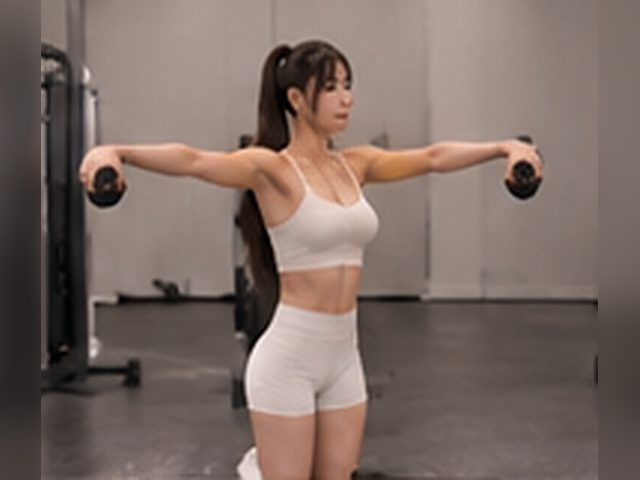
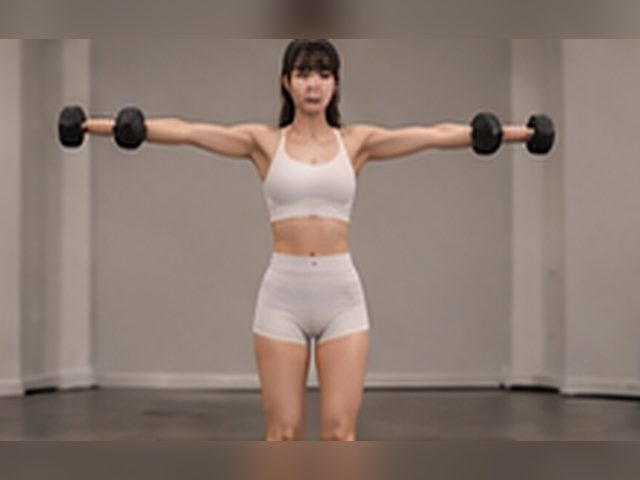
Photos from the second poster: one-arm row, reverse fly, lateral raise, seated row
- One-arm row and reverse fly were missing — now photos (drawing before)
- Lateral raise: front view; seated row: wider side view in the same outfit
- 22 of 26 movements have a photo; cross trainer, lat pulldown, reverse crunch
  and stomach vacuum keep their drawings
- All photos 640x480 (4:3), label and border removed

Claude-Session: https://claude.ai/code/session_019KpxJkwGgcJihZ3wnWQJG2

diff --git a/photos/README.md b/photos/README.md
@@ -5,8 +5,10 @@ movement (`.jpg`, `.png` or `.webp`, 4:3, 640 × 480 — all photos the same siz
 that has that exercise — no code change. Movements without a photo keep their drawing. The list lives in
 `photos.ts` (`MOVEMENT`); `SAME_AS` lets a movement reuse another's photo; a credit can go in `CREDIT`.
 
-The current photos were cut from the "Gym Plan – 3 Days" poster (one tile per exercise, label removed),
-enlarged to 640 × 480; tall and wide tiles sit whole on a blurred copy of themselves. ✓ = has a photo.
+The current photos were cut from the two "Gym Plan" posters (one tile per exercise, label removed),
+enlarged to 640 × 480; tall and wide tiles sit whole on a blurred copy of themselves. One-arm row,
+reverse fly, lateral raise and seated row come from the second poster, the rest from the first.
+✓ = has a photo.
 
 | File name | Exercise | Days | Photo |
 |---|---|---|---|
@@ -26,8 +28,8 @@ enlarged to 640 × 480; tall and wide tiles sit whole on a blurred copy of thems
 | `suitcase-carry` | Suitcase Carry | Mon, Fri | ✓ |
 | `lat-pulldown` | Lat Pulldown | Wed | drawing |
 | `seated-row` | Seated Row Machine | Fri | ✓ |
-| `one-arm-row` | One-Arm Dumbbell Row | Mon | drawing |
-| `reverse-fly` | Seated Reverse Fly | Mon | drawing |
+| `one-arm-row` | One-Arm Dumbbell Row | Mon | ✓ |
+| `reverse-fly` | Seated Reverse Fly | Mon | ✓ |
 | `lateral-raise` | Dumbbell Lateral Raise | Mon | ✓ |
 | `glute-bridge` | Glute Bridge (2-sec squeeze) | Home | ✓ |
 | `donkey-kick` | Donkey Kick | Home | ✓ |
